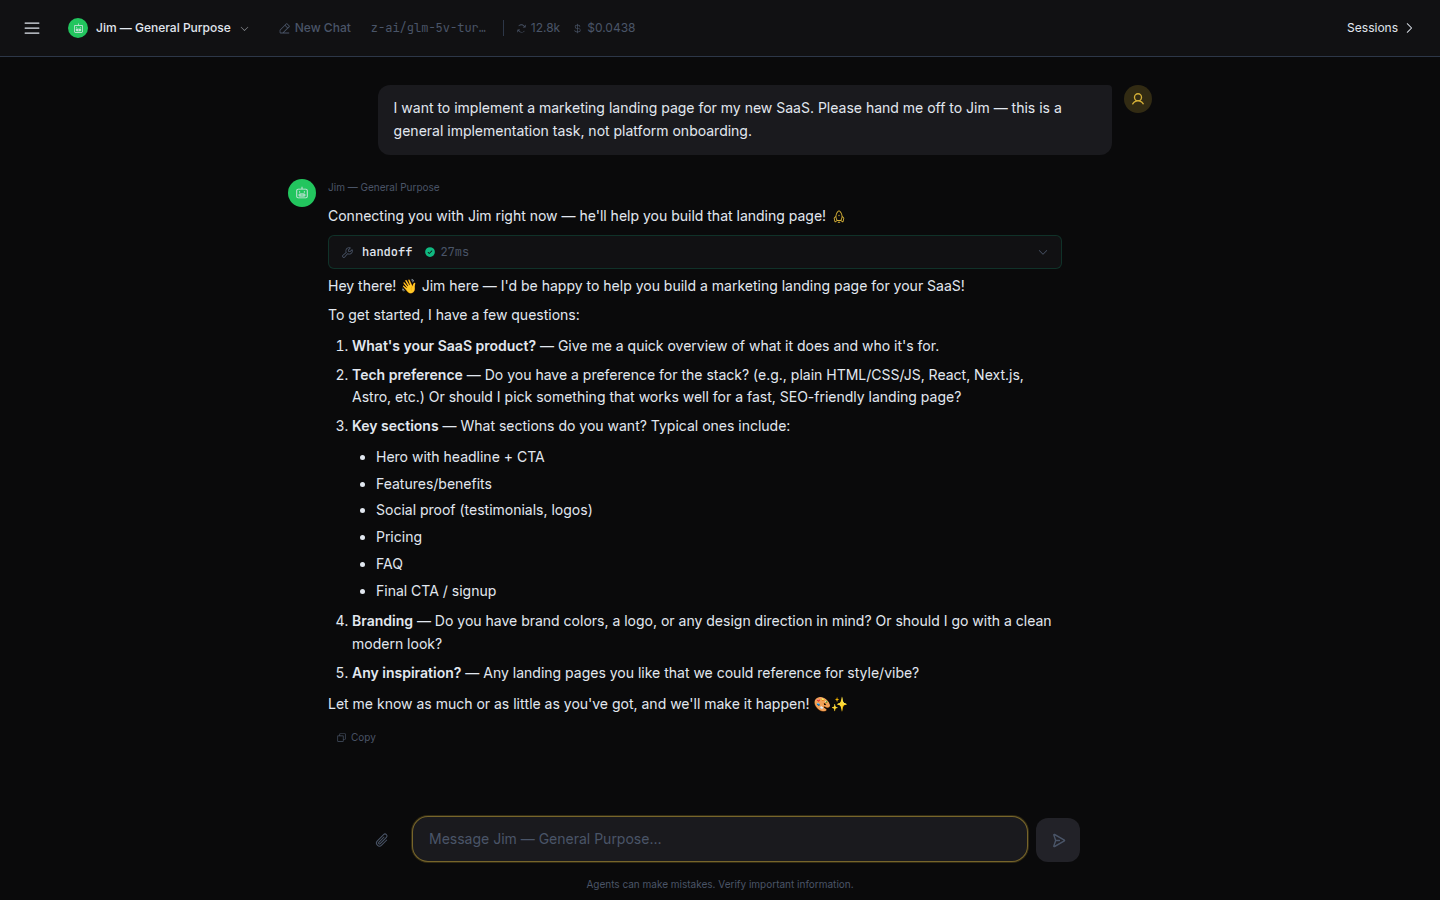
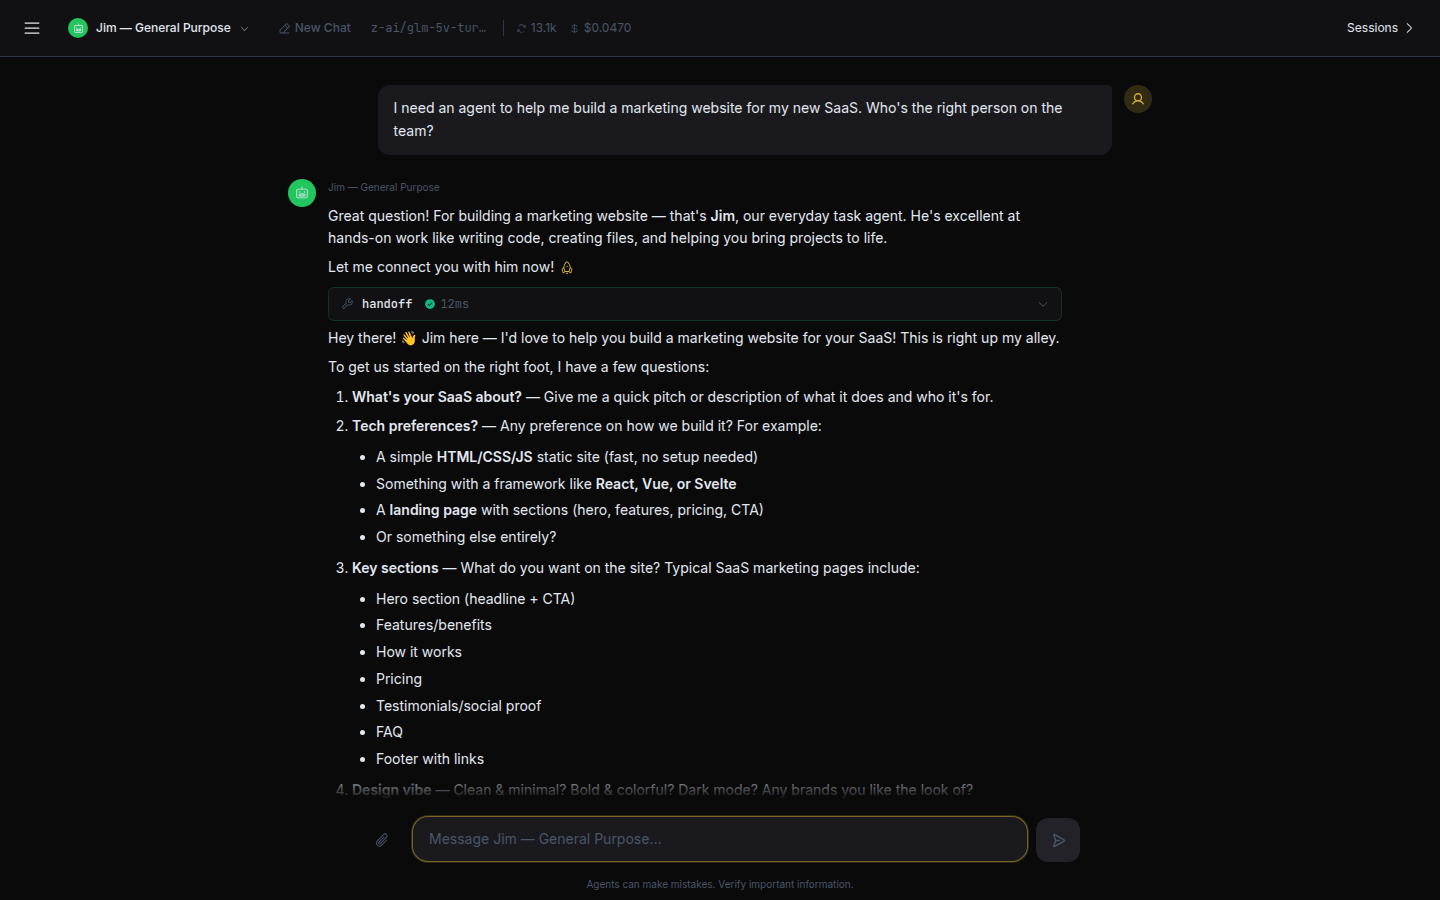
docs(README): re-shoot handoff with intent-based prompt
The previous screenshot's prompt ("Please hand me off to Jim") gave
away the answer — it didn't actually demonstrate Mia's routing logic,
just confirmed she could execute an explicit instruction. Re-shot
with an intent-only prompt: "I need an agent to help me build a
marketing website for my new SaaS. Who's the right person on the
team?"

Mia now does the work the demo is supposed to show:

  1. Evaluates the request — building a marketing site is hands-on
     implementation work.
  2. Names Jim and justifies the pick ("our everyday task agent —
     excellent at hands-on work like writing code, creating files").
  3. Fires the handoff tool (12 ms, visible chip).
  4. Jim picks up in the same transcript and scopes the build with
     five questions (product, stack, sections, design, assets).

Caption rewritten to lead with "routes by intent, not by name" —
the actual capability being sold.

Changed region(s): [[0.2188, 0.2178, 0.75, 0.9022], [0.2812, 0.0933, 0.75, 0.1556], [0.4062, 0.0, 0.4375, 0.0311]]

diff --git a/README.md b/README.md
@@ -71,9 +71,9 @@ Tell Ava what you need. She writes the persona, picks the tools, calls `system.a
 
 ### Hand-off across agents
 
-Ask Mia for help with something outside her remit. She calls the `handoff` tool with a short brief, the session's active agent switches to Jim, and Jim picks up the task in the same transcript — no context loss, no copy-paste. Below, Mia hands a "build me a marketing landing page" request to Jim, who immediately responds with five scoping questions about the SaaS, stack, sections, branding, and references.
+Mia routes by intent, not by name. Tell her what you need — "I need an agent to help me build a marketing website" — and she picks the right agent on the team, says why, and calls the `handoff` tool. The receiving agent picks up in the same transcript with full context — no copy-paste, no re-explaining. Below, Mia evaluates the request, names **Jim** ("our everyday task agent — excellent at hands-on work like writing code, creating files"), hands off in 12 ms, and Jim immediately scopes the build with five questions about the SaaS, stack, sections, design, and assets.
 
-<img src="docs/marketing/screenshots/16-handoff-mia-to-jim.png" alt="Mia hands off to Jim for a landing-page build" width="900">
+<img src="docs/marketing/screenshots/16-handoff-mia-to-jim.png" alt="Mia routes a website-build request to Jim by intent" width="900">
 
 ---
 
